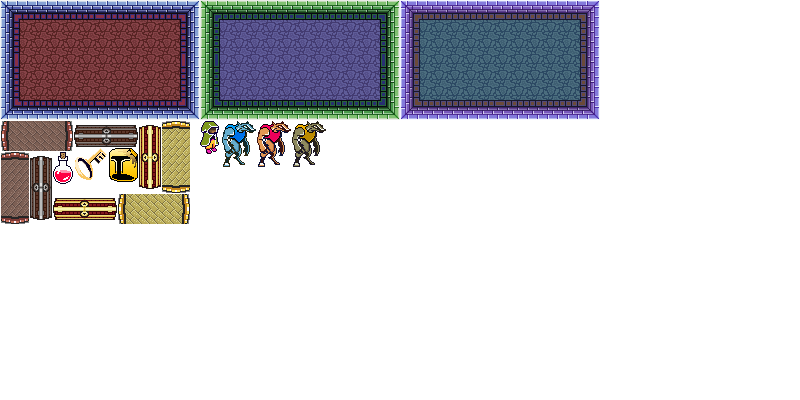
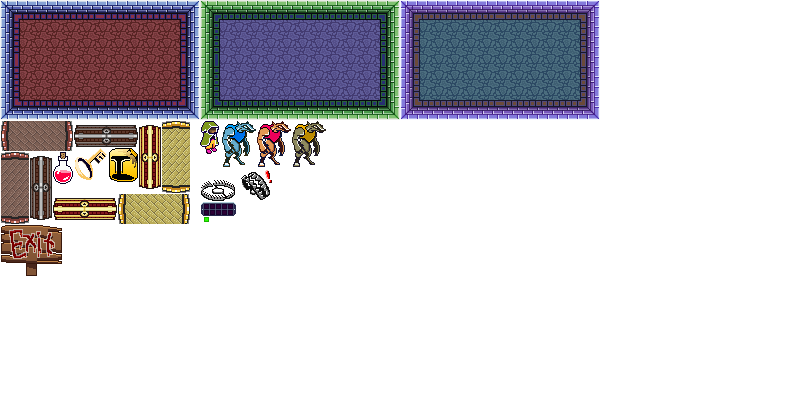
My last commit, changed exit sprite

Changed region(s): [[0.0, 0.54, 0.0938, 0.69], [0.25, 0.42, 0.3438, 0.54]]

diff --git a/client/src/collisions.js b/client/src/collisions.js
@@ -458,8 +458,8 @@ Crafty.c("Key", {
 
 Crafty.c("Exit", {
   init: function() {
-    this.requires('2D, Canvas, Collision, key_pic');
-    this.attr({z: 0, w:10, h:10})
+    this.requires('2D, Canvas, Collision, exit');
+    this.attr({z: 0, w:62, h:51})
         .collision().onHit("Actor", function(e){
           if(hero.hasKey() && this.active){
 			Crafty.e("2D, Canvas, Text").attr({x: 400, y: 280 }).text("You win!")

diff --git a/client/src/components.js b/client/src/components.js
@@ -7,7 +7,8 @@ Crafty.sprite("assets//aJEpash.png",
          potion_pic: [53, 152, 72-53, 31],
          helm_pic: [109, 148, 137-109, 33],
          horiz_door: [0, 152, 30, 72],
-         vert_door: [0, 121, 74, 30]
+         vert_door: [0, 121, 74, 30],
+		 exit: [0, 224, 62, 51]
         });
 
 Crafty.audio.add({
